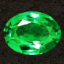
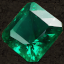
graphics

diff --git a/ToTheEndOfTheWorld/Context/WorldElementsRepository.cs b/ToTheEndOfTheWorld/Context/WorldElementsRepository.cs
@@ -32,26 +32,26 @@ namespace ToTheEndOfTheWorld.Context
 
             AddTexturedBlock(manager, GameIds.Blocks.Grass, "Grass", "Blocks/GrassBlock", hardness: 0, health: 50, minimumDepth: 11, maximumDepth: 11, occurrenceSpan: new Vector2(0f, 100f), worth: 5, weight: 1.0f);
             AddTexturedBlock(manager, GameIds.Blocks.Dirt, "Dirt", "Blocks/DirtBlock", hardness: 0, health: 10, minimumDepth: 12, maximumDepth: long.MaxValue, occurrenceSpan: new Vector2(0f, 100f), worth: 1, weight: 1.0f);
-            AddPlaceholderBlock(placeholderTexture, GameIds.Blocks.Gravel, "Gravel", hardness: 1, health: 5, minimumDepth: 15, maximumDepth: 220, occurrenceSpan: new Vector2(0f, 2f), worth: 2, weight: 1.0f);
+            AddTexturedBlock(manager, GameIds.Blocks.Gravel, "Gravel", "Blocks/Gravel", hardness: 1, health: 5, minimumDepth: 15, maximumDepth: 220, occurrenceSpan: new Vector2(0f, 2f), worth: 2, weight: 1.0f);
             AddTexturedBlock(manager, GameIds.Blocks.Rock, "Rock", "Blocks/StoneBlock", hardness: 20, health: 50, minimumDepth: 12, maximumDepth: long.MaxValue, occurrenceSpan: new Vector2(2f, 4f), worth: 5, weight: 2.0f);
-            AddPlaceholderBlock(placeholderTexture, GameIds.Blocks.Granite, "Granite", hardness: 50, health: 100, minimumDepth: 8000, maximumDepth: long.MaxValue, occurrenceSpan: new Vector2(4f, 5f), worth: 8, weight: 1.0f);
+            AddTexturedBlock(manager, GameIds.Blocks.Granite, "Granite", "Blocks/GraniteBlock", hardness: 50, health: 100, minimumDepth: 8000, maximumDepth: long.MaxValue, occurrenceSpan: new Vector2(4f, 5f), worth: 8, weight: 1.0f);
             AddTexturedBlock(manager, GameIds.Blocks.IronOre, "Iron ore", "Blocks/IronBlock", hardness: 15, health: 75, minimumDepth: 100, maximumDepth: 800000, occurrenceSpan: new Vector2(5f, 6f), worth: 10, weight: 1.0f);
-            AddPlaceholderBlock(placeholderTexture, GameIds.Blocks.Lead, "Lead", hardness: 5, health: 50, minimumDepth: 200, maximumDepth: 40000, occurrenceSpan: new Vector2(6f, 6.5f), worth: 12, weight: 1.0f);
-            AddPlaceholderBlock(placeholderTexture, GameIds.Blocks.Aluminium, "Aluminium", hardness: 15, health: 100, minimumDepth: 300, maximumDepth: 60000, occurrenceSpan: new Vector2(6.5f, 7f), worth: 15, weight: 1.0f);
-            AddPlaceholderBlock(placeholderTexture, GameIds.Blocks.Zinc, "Zinc", hardness: 20, health: 150, minimumDepth: 500, maximumDepth: 80000, occurrenceSpan: new Vector2(7f, 8f), worth: 18, weight: 1.0f);
+            AddTexturedBlock(manager, GameIds.Blocks.Lead, "Lead", "Blocks/LeadBlock", hardness: 5, health: 50, minimumDepth: 200, maximumDepth: 40000, occurrenceSpan: new Vector2(6f, 6.5f), worth: 12, weight: 1.0f);
+            AddTexturedBlock(manager, GameIds.Blocks.Aluminium, "Aluminium", "Blocks/AluminumBlock", hardness: 15, health: 100, minimumDepth: 300, maximumDepth: 60000, occurrenceSpan: new Vector2(6.5f, 7f), worth: 15, weight: 1.0f);
+            AddTexturedBlock(manager, GameIds.Blocks.Zinc, "Zinc", "Blocks/ZincBlock", hardness: 20, health: 150, minimumDepth: 500, maximumDepth: 80000, occurrenceSpan: new Vector2(7f, 8f), worth: 18, weight: 1.0f);
             AddTexturedBlock(manager, GameIds.Blocks.CopperOre, "Copper ore", "Blocks/CopperBlock", hardness: 25, health: 200, minimumDepth: 800, maximumDepth: 100000, occurrenceSpan: new Vector2(8f, 8.5f), worth: 20, weight: 1.0f);
-            AddPlaceholderBlock(placeholderTexture, GameIds.Blocks.Nickel, "Nickel", hardness: 35, health: 300, minimumDepth: 1200, maximumDepth: 140000, occurrenceSpan: new Vector2(8.5f, 9f), worth: 25, weight: 1.0f);
-            AddPlaceholderBlock(placeholderTexture, GameIds.Blocks.TinOre, "Tin ore", hardness: 10, health: 50, minimumDepth: 400, maximumDepth: 20000, occurrenceSpan: new Vector2(9f, 9.5f), worth: 8, weight: 1.0f);
-            AddPlaceholderBlock(placeholderTexture, GameIds.Blocks.SilverOre, "Silver ore", hardness: 20, health: 85, minimumDepth: 1600, maximumDepth: 200000, occurrenceSpan: new Vector2(9.5f, 10f), worth: 35, weight: 1.0f);
+            AddTexturedBlock(manager, GameIds.Blocks.Nickel, "Nickel", "Blocks/NickelBlock", hardness: 35, health: 300, minimumDepth: 1200, maximumDepth: 140000, occurrenceSpan: new Vector2(8.5f, 9f), worth: 25, weight: 1.0f);
+            AddTexturedBlock(manager, GameIds.Blocks.TinOre, "Tin ore", "Blocks/TinBlock", hardness: 10, health: 50, minimumDepth: 400, maximumDepth: 20000, occurrenceSpan: new Vector2(9f, 9.5f), worth: 8, weight: 1.0f);
+            AddTexturedBlock(manager, GameIds.Blocks.SilverOre, "Silver ore", "Blocks/SilverBlock", hardness: 20, health: 85, minimumDepth: 1600, maximumDepth: 200000, occurrenceSpan: new Vector2(9.5f, 10f), worth: 35, weight: 1.0f);
             AddTexturedBlock(manager, GameIds.Blocks.GoldOre, "Gold ore", "Blocks/GoldBlock", hardness: 20, health: 250, minimumDepth: 2400, maximumDepth: 400000, occurrenceSpan: new Vector2(10f, 10.25f), worth: 50, weight: 1.0f);
-            AddPlaceholderBlock(placeholderTexture, GameIds.Blocks.Mythril, "Mythril", hardness: 500, health: 2500, minimumDepth: 3600, maximumDepth: 800000, occurrenceSpan: new Vector2(10.25f, 10.50f), worth: 250, weight: 1.0f);
-            AddPlaceholderBlock(placeholderTexture, GameIds.Blocks.Adamantium, "Adamantium", hardness: 1500, health: 8500, minimumDepth: 5400, maximumDepth: 1600000, occurrenceSpan: new Vector2(10.50f, 10.625f), worth: 1000, weight: 1.0f);
+            AddTexturedBlock(manager, GameIds.Blocks.Mythril, "Mythril", "Blocks/MythrilBlock", hardness: 500, health: 2500, minimumDepth: 3600, maximumDepth: 800000, occurrenceSpan: new Vector2(10.25f, 10.50f), worth: 250, weight: 1.0f);
+            AddTexturedBlock(manager, GameIds.Blocks.Adamantium, "Adamantium", "Blocks/AdamantiumBlock", hardness: 1500, health: 8500, minimumDepth: 5400, maximumDepth: 1600000, occurrenceSpan: new Vector2(10.50f, 10.625f), worth: 1000, weight: 1.0f);
 
             AddPlaceholderBlock(placeholderTexture, GameIds.Blocks.Alexandrite, "Alexandrite", hardness: 70, health: 300, minimumDepth: 2600, maximumDepth: 500000, occurrenceSpan: new Vector2(10.625f, 10.80f), worth: 80, weight: 1.0f);
             AddPlaceholderBlock(placeholderTexture, GameIds.Blocks.Amber, "Amber", hardness: 12, health: 30, minimumDepth: 40, maximumDepth: 2400, occurrenceSpan: new Vector2(10.80f, 10.95f), worth: 6, weight: 1.0f);
             AddTexturedBlock(manager, GameIds.Blocks.Amethyst, "Amethyst", "Blocks/AmethystBlock", hardness: 80, health: 350, minimumDepth: 3000, maximumDepth: 600000, occurrenceSpan: new Vector2(10.95f, 11.10f), worth: 90, weight: 1.0f);
             AddPlaceholderBlock(placeholderTexture, GameIds.Blocks.Apatite, "Apatite", hardness: 18, health: 60, minimumDepth: 200, maximumDepth: 12000, occurrenceSpan: new Vector2(11.10f, 11.25f), worth: 10, weight: 1.0f);
-            AddPlaceholderBlock(placeholderTexture, GameIds.Blocks.Aquamarine, "Aquamarine", hardness: 45, health: 180, minimumDepth: 1800, maximumDepth: 180000, occurrenceSpan: new Vector2(11.25f, 11.40f), worth: 45, weight: 1.0f);
+            AddTexturedBlock(manager, GameIds.Blocks.Aquamarine, "Aquamarine", "Blocks/AquamarineBlock", hardness: 45, health: 180, minimumDepth: 1800, maximumDepth: 180000, occurrenceSpan: new Vector2(11.25f, 11.40f), worth: 45, weight: 1.0f);
             AddPlaceholderBlock(placeholderTexture, GameIds.Blocks.Artifact, "Artifact", hardness: 1200, health: 6000, minimumDepth: 9000, maximumDepth: long.MaxValue, occurrenceSpan: new Vector2(11.40f, 11.48f), worth: 4000, weight: 1.0f);
             AddPlaceholderBlock(placeholderTexture, GameIds.Blocks.Artifacts, "Artifacts", hardness: 1300, health: 7000, minimumDepth: 12000, maximumDepth: long.MaxValue, occurrenceSpan: new Vector2(11.48f, 11.56f), worth: 6000, weight: 1.0f);
             AddPlaceholderBlock(placeholderTexture, GameIds.Blocks.Bedrock, "Bedrock", hardness: 100000f, health: 100000f, minimumDepth: 20000, maximumDepth: long.MaxValue, occurrenceSpan: new Vector2(11.56f, 11.66f), worth: 0, weight: 1.0f);
@@ -62,38 +62,37 @@ namespace ToTheEndOfTheWorld.Context
             AddPlaceholderBlock(placeholderTexture, GameIds.Blocks.Chromium, "Chromium", hardness: 75, health: 320, minimumDepth: 2800, maximumDepth: 280000, occurrenceSpan: new Vector2(12.12f, 12.28f), worth: 70, weight: 1.0f);
             AddPlaceholderBlock(placeholderTexture, GameIds.Blocks.Cinnabar, "Cinnabar", hardness: 60, health: 260, minimumDepth: 2200, maximumDepth: 220000, occurrenceSpan: new Vector2(12.28f, 12.43f), worth: 55, weight: 1.0f);
             AddPlaceholderBlock(placeholderTexture, GameIds.Blocks.Cobalt, "Cobalt", hardness: 85, health: 350, minimumDepth: 3200, maximumDepth: 300000, occurrenceSpan: new Vector2(12.43f, 12.58f), worth: 85, weight: 1.0f);
-            AddPlaceholderBlock(placeholderTexture, GameIds.Blocks.Citrine, "Citrine", hardness: 55, health: 220, minimumDepth: 1900, maximumDepth: 180000, occurrenceSpan: new Vector2(12.58f, 12.73f), worth: 50, weight: 1.0f);
+            AddTexturedBlock(manager, GameIds.Blocks.Citrine, "Citrine", "Blocks/CitrineBlock", hardness: 55, health: 220, minimumDepth: 1900, maximumDepth: 180000, occurrenceSpan: new Vector2(12.58f, 12.73f), worth: 50, weight: 1.0f);
             AddTexturedBlock(manager, GameIds.Blocks.Diamond, "Diamond", "Blocks/DiamondBlock", hardness: 400, health: 1200, minimumDepth: 4400, maximumDepth: 900000, occurrenceSpan: new Vector2(12.73f, 12.88f), worth: 200, weight: 1.0f);
             AddPlaceholderBlock(placeholderTexture, GameIds.Blocks.Diode, "Diode", hardness: 140, health: 420, minimumDepth: 3800, maximumDepth: 350000, occurrenceSpan: new Vector2(12.88f, 12.98f), worth: 110, weight: 1.0f);
             AddTexturedBlock(manager, GameIds.Blocks.Emerald, "Emerald", "Blocks/EmeraldBlock", hardness: 95, health: 360, minimumDepth: 3400, maximumDepth: 320000, occurrenceSpan: new Vector2(12.98f, 13.13f), worth: 110, weight: 1.0f);
-            AddPlaceholderBlock(placeholderTexture, GameIds.Blocks.Garnet, "Garnet", hardness: 70, health: 260, minimumDepth: 2400, maximumDepth: 220000, occurrenceSpan: new Vector2(13.13f, 13.28f), worth: 60, weight: 1.0f);
-            AddPlaceholderBlock(placeholderTexture, GameIds.Blocks.LapisLazuli, "Lapis Lazuli", hardness: 65, health: 240, minimumDepth: 2100, maximumDepth: 210000, occurrenceSpan: new Vector2(13.28f, 13.43f), worth: 55, weight: 1.0f);
+            AddTexturedBlock(manager, GameIds.Blocks.Garnet, "Garnet", "Blocks/GarnetBlock", hardness: 70, health: 260, minimumDepth: 2400, maximumDepth: 220000, occurrenceSpan: new Vector2(13.13f, 13.28f), worth: 60, weight: 1.0f);
+            AddTexturedBlock(manager, GameIds.Blocks.LapisLazuli, "Lapis Lazuli", "Blocks/LapisLazuliBlock", hardness: 65, health: 240, minimumDepth: 2100, maximumDepth: 210000, occurrenceSpan: new Vector2(13.28f, 13.43f), worth: 55, weight: 1.0f);
             AddPlaceholderBlock(placeholderTexture, GameIds.Blocks.Lava, "Lava", hardness: 40, health: 100, minimumDepth: 4500, maximumDepth: long.MaxValue, occurrenceSpan: new Vector2(13.43f, 13.53f), worth: 15, ethereal: false, miningHeatGeneration: 20f, weight: 1.0f);
             AddPlaceholderBlock(placeholderTexture, GameIds.Blocks.Malachite, "Malachite", hardness: 50, health: 210, minimumDepth: 1700, maximumDepth: 170000, occurrenceSpan: new Vector2(13.53f, 13.68f), worth: 40, weight: 1.0f);
-            AddPlaceholderBlock(placeholderTexture, GameIds.Blocks.Obsidian, "Obsidian", hardness: 650, health: 2600, minimumDepth: 5200, maximumDepth: 1000000, occurrenceSpan: new Vector2(13.68f, 13.83f), worth: 320, weight: 1.0f);
-            AddPlaceholderBlock(placeholderTexture, GameIds.Blocks.Opal, "Opal", hardness: 58, health: 210, minimumDepth: 2100, maximumDepth: 180000, occurrenceSpan: new Vector2(13.83f, 13.98f), worth: 48, weight: 1.0f);
+            AddTexturedBlock(manager, GameIds.Blocks.Obsidian, "Obsidian", "Blocks/ObsidianBlock", hardness: 650, health: 2600, minimumDepth: 5200, maximumDepth: 1000000, occurrenceSpan: new Vector2(13.68f, 13.83f), worth: 320, weight: 1.0f);
+            AddTexturedBlock(manager, GameIds.Blocks.Opal, "Opal", "Blocks/OpalBlock", hardness: 58, health: 210, minimumDepth: 2100, maximumDepth: 180000, occurrenceSpan: new Vector2(13.83f, 13.98f), worth: 48, weight: 1.0f);
             AddPlaceholderBlock(placeholderTexture, GameIds.Blocks.Osmium, "Osmium", hardness: 160, health: 600, minimumDepth: 4800, maximumDepth: 500000, occurrenceSpan: new Vector2(13.98f, 14.13f), worth: 140, weight: 1.0f);
-            AddPlaceholderBlock(placeholderTexture, GameIds.Blocks.Peridot, "Peridot", hardness: 48, health: 180, minimumDepth: 1600, maximumDepth: 140000, occurrenceSpan: new Vector2(14.13f, 14.28f), worth: 36, weight: 1.0f);
+            AddTexturedBlock(manager, GameIds.Blocks.Peridot, "Peridot", "Blocks/PeridotBlock", hardness: 48, health: 180, minimumDepth: 1600, maximumDepth: 140000, occurrenceSpan: new Vector2(14.13f, 14.28f), worth: 36, weight: 1.0f);
             AddPlaceholderBlock(placeholderTexture, GameIds.Blocks.Platinum, "Platinum", hardness: 200, health: 700, minimumDepth: 5000, maximumDepth: 600000, occurrenceSpan: new Vector2(14.28f, 14.43f), worth: 180, weight: 1.0f);
-            AddPlaceholderBlock(placeholderTexture, GameIds.Blocks.Pyrite, "Pyrite", hardness: 52, health: 200, minimumDepth: 1900, maximumDepth: 160000, occurrenceSpan: new Vector2(14.43f, 14.58f), worth: 26, weight: 1.0f);
-            AddPlaceholderBlock(placeholderTexture, GameIds.Blocks.Quartz, "Quartz", hardness: 42, health: 160, minimumDepth: 1200, maximumDepth: 120000, occurrenceSpan: new Vector2(14.58f, 14.73f), worth: 22, weight: 1.0f);
-            AddPlaceholderBlock(placeholderTexture, GameIds.Blocks.RainbowCrystal, "Rainbow crystal", hardness: 1800, health: 9000, minimumDepth: 14000, maximumDepth: long.MaxValue, occurrenceSpan: new Vector2(14.73f, 14.83f), worth: 4000, weight: 1.0f);
+            AddTexturedBlock(manager, GameIds.Blocks.Pyrite, "Pyrite", "Blocks/PyriteBlock", hardness: 52, health: 200, minimumDepth: 1900, maximumDepth: 160000, occurrenceSpan: new Vector2(14.43f, 14.58f), worth: 26, weight: 1.0f);
+            AddTexturedBlock(manager, GameIds.Blocks.Quartz, "Quartz", "Blocks/QuartzBlock", hardness: 42, health: 160, minimumDepth: 1200, maximumDepth: 120000, occurrenceSpan: new Vector2(14.58f, 14.73f), worth: 22, weight: 1.0f);
             AddPlaceholderBlock(placeholderTexture, GameIds.Blocks.RainbowGem, "Rainbow gem", hardness: 2200, health: 12000, minimumDepth: 18000, maximumDepth: long.MaxValue, occurrenceSpan: new Vector2(14.83f, 14.93f), worth: 7000, weight: 1.0f);
             AddPlaceholderBlock(placeholderTexture, GameIds.Blocks.Ring, "Ring", hardness: 200, health: 500, minimumDepth: 6000, maximumDepth: 700000, occurrenceSpan: new Vector2(14.93f, 15.00f), worth: 500, weight: 1.0f);
             AddTexturedBlock(manager, GameIds.Blocks.Ruby, "Ruby", "Blocks/RubyBlock", hardness: 100, health: 380, minimumDepth: 3600, maximumDepth: 360000, occurrenceSpan: new Vector2(15.00f, 15.15f), worth: 120, weight: 1.0f);
-            AddPlaceholderBlock(placeholderTexture, GameIds.Blocks.Sapphire, "Sapphire", hardness: 105, health: 390, minimumDepth: 3700, maximumDepth: 370000, occurrenceSpan: new Vector2(15.15f, 15.30f), worth: 120, weight: 1.0f);
+            AddTexturedBlock(manager, GameIds.Blocks.Sapphire, "Sapphire", "Blocks/SapphireBlock", hardness: 105, health: 390, minimumDepth: 3700, maximumDepth: 370000, occurrenceSpan: new Vector2(15.15f, 15.30f), worth: 120, weight: 1.0f);
             AddPlaceholderBlock(placeholderTexture, GameIds.Blocks.Silicon, "Silicon", hardness: 45, health: 170, minimumDepth: 1400, maximumDepth: 120000, occurrenceSpan: new Vector2(15.30f, 15.45f), worth: 20, weight: 1.0f);
-            AddPlaceholderBlock(placeholderTexture, GameIds.Blocks.Skeleton, "Skeleton", hardness: 8, health: 25, minimumDepth: 40, maximumDepth: 7000, occurrenceSpan: new Vector2(15.45f, 15.52f), worth: 35, weight: 1.0f);
-            AddPlaceholderBlock(placeholderTexture, GameIds.Blocks.Sulphur, "Sulphur", hardness: 25, health: 90, minimumDepth: 500, maximumDepth: 30000, occurrenceSpan: new Vector2(15.52f, 15.67f), worth: 16, weight: 1.0f);
+            AddTexturedBlock(manager, GameIds.Blocks.Skeleton, "Skeleton", "Blocks/SkeletonBlock", hardness: 8, health: 25, minimumDepth: 40, maximumDepth: 7000, occurrenceSpan: new Vector2(15.45f, 15.52f), worth: 35, weight: 1.0f);
+            AddTexturedBlock(manager, GameIds.Blocks.Sulphur, "Sulphur", "Blocks/SulphurBlock", hardness: 25, health: 90, minimumDepth: 500, maximumDepth: 30000, occurrenceSpan: new Vector2(15.52f, 15.67f), worth: 16, weight: 1.0f);
             AddPlaceholderBlock(placeholderTexture, GameIds.Blocks.Titanium, "Titanium", hardness: 240, health: 900, minimumDepth: 6200, maximumDepth: 700000, occurrenceSpan: new Vector2(15.67f, 15.82f), worth: 220, weight: 1.0f);
-            AddPlaceholderBlock(placeholderTexture, GameIds.Blocks.Topaz, "Topaz", hardness: 82, health: 330, minimumDepth: 3000, maximumDepth: 300000, occurrenceSpan: new Vector2(15.82f, 15.97f), worth: 85, weight: 1.0f);
+            AddTexturedBlock(manager, GameIds.Blocks.Topaz, "Topaz", "Blocks/TopazBlock", hardness: 82, health: 330, minimumDepth: 3000, maximumDepth: 300000, occurrenceSpan: new Vector2(15.82f, 15.97f), worth: 85, weight: 1.0f);
             AddPlaceholderBlock(placeholderTexture, GameIds.Blocks.Treasure, "Treasure", hardness: 250, health: 700, minimumDepth: 6500, maximumDepth: long.MaxValue, occurrenceSpan: new Vector2(15.97f, 16.05f), worth: 2000, weight: 1.0f);
-            AddPlaceholderBlock(placeholderTexture, GameIds.Blocks.Tungsten, "Tungsten", hardness: 300, health: 1100, minimumDepth: 7000, maximumDepth: 800000, occurrenceSpan: new Vector2(16.05f, 16.20f), worth: 260, weight: 1.0f);
+            AddTexturedBlock(manager, GameIds.Blocks.Tungsten, "Tungsten", "Blocks/TungstenBlock", hardness: 300, health: 1100, minimumDepth: 7000, maximumDepth: 800000, occurrenceSpan: new Vector2(16.05f, 16.20f), worth: 260, weight: 1.0f);
             AddTexturedBlock(manager, GameIds.Blocks.Uranium, "Uranium", "Blocks/UraniumBlock", hardness: 380, health: 1400, minimumDepth: 7600, maximumDepth: 900000, occurrenceSpan: new Vector2(16.20f, 16.35f), worth: 350, weight: 1.0f);
             AddPlaceholderBlock(placeholderTexture, GameIds.Blocks.Water, "Water", hardness: 0, health: 0, minimumDepth: 8, maximumDepth: 80, occurrenceSpan: new Vector2(16.35f, 16.45f), ethereal: true, weight: 0.0f);
             AddPlaceholderBlock(placeholderTexture, GameIds.Blocks.Wood, "Wood", hardness: 3, health: 15, minimumDepth: 11, maximumDepth: 40, occurrenceSpan: new Vector2(16.45f, 16.55f), worth: 4, weight: 1.0f);
 
-            AddTexturedBlock(manager, GameIds.Blocks.Rainbow, "Rainbow", "Blocks/Rainbow", hardness: 2600, health: 14000, minimumDepth: 22000, maximumDepth: long.MaxValue, occurrenceSpan: new Vector2(16.55f, 16.63f), worth: 12000, weight: 1.0f);
+            AddTexturedBlock(manager, GameIds.Blocks.Rainbow, "Rainbow", "Blocks/RainbowBlock", hardness: 2600, health: 14000, minimumDepth: 22000, maximumDepth: long.MaxValue, occurrenceSpan: new Vector2(16.55f, 16.63f), worth: 12000, weight: 1.0f);
             AddTexturedBlock(manager, GameIds.Blocks.DinosaurBone, "Dinosaur bone", "Blocks/DinosaurBoneBlock", hardness: 80, health: 300, minimumDepth: 3200, maximumDepth: 90000, occurrenceSpan: new Vector2(16.63f, 16.71f), worth: 75, weight: 1.0f);
             AddTexturedBlock(manager, GameIds.Blocks.ShardOfDeath, "Shard of death", "Blocks/ShardOfDeathBlock", hardness: 3200, health: 18000, minimumDepth: 24000, maximumDepth: long.MaxValue, occurrenceSpan: new Vector2(16.71f, 16.79f), worth: 18000, weight: 1.0f);
             AddTexturedBlock(manager, GameIds.Blocks.ShardOfLife, "Shard of life", "Blocks/ShardOfLifeBlock", hardness: 3200, health: 18000, minimumDepth: 24000, maximumDepth: long.MaxValue, occurrenceSpan: new Vector2(16.79f, 16.87f), worth: 18000, weight: 1.0f);
@@ -127,7 +126,7 @@ namespace ToTheEndOfTheWorld.Context
             Block block = new(ID: id, Ethereal: ethereal, Hardness: hardness, Health: health, Worth: worth, Info: info);
             Add(id, (name, manager.Load<Texture2D>(assetPath), block));
         }
-
+        
         private void AddPlaceholderBlock(Texture2D placeholderTexture, short id, string name, float hardness, float health, long minimumDepth, long maximumDepth, Vector2 occurrenceSpan, float worth = 0, bool ethereal = false, float miningHeatGeneration = 0.1f, float weight = 1.0f)
         {
             BlockInfo info = new(
